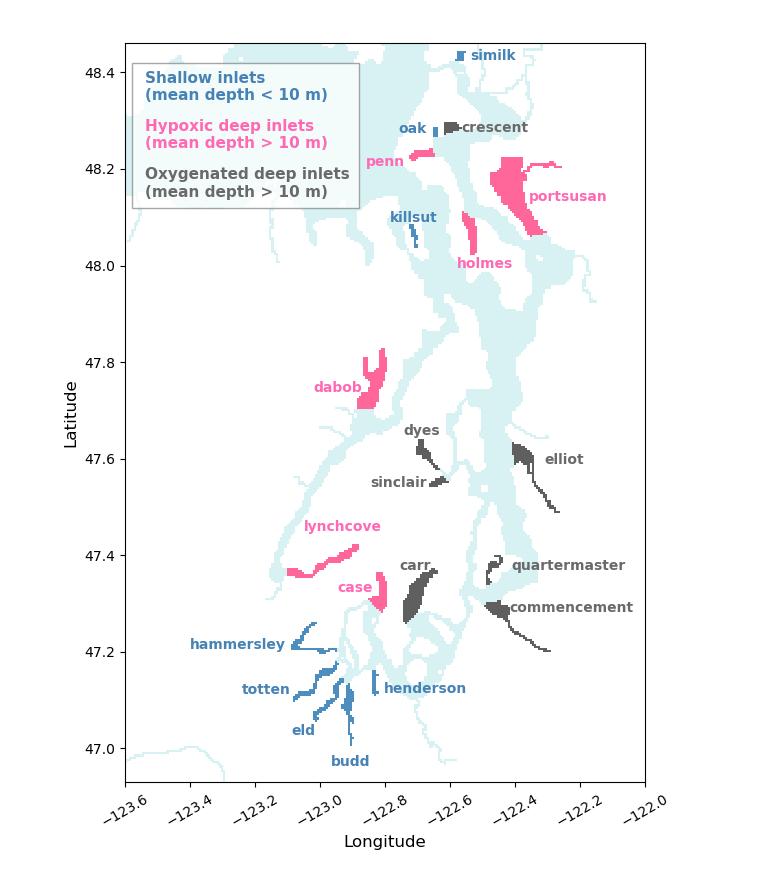
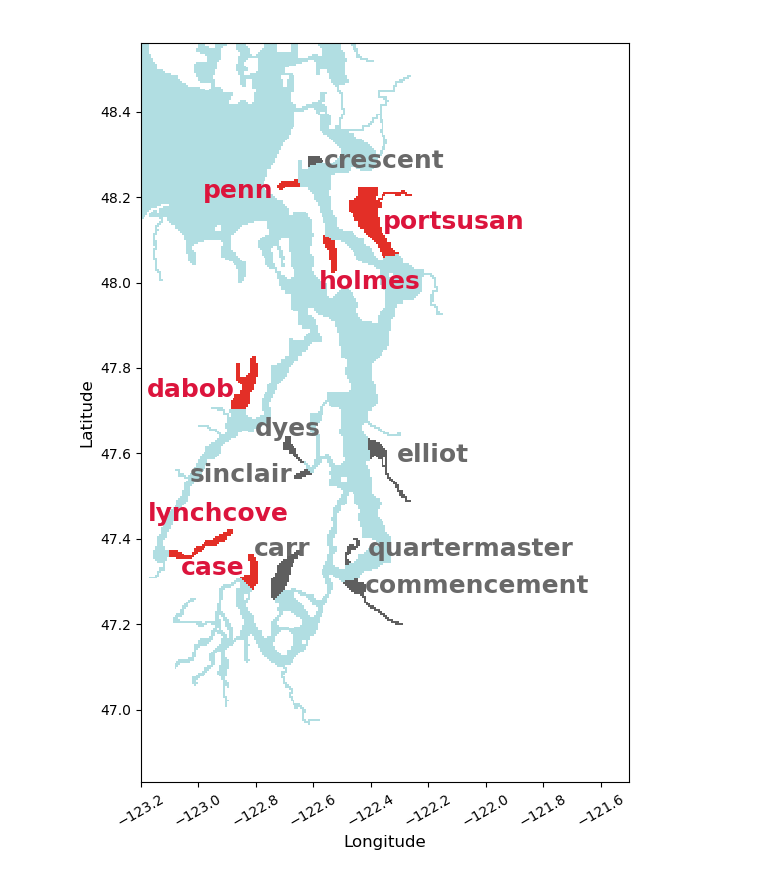
figures for poster

diff --git a/plotting/2014_2019_DO/budget_DO/plot_budget_TEF_21INLET.py b/plotting/2014_2019_DO/budget_DO/plot_budget_TEF_21INLET.py
@@ -2978,25 +2978,25 @@ timeseries = True
 if timeseries == True:
     for i,station in enumerate(sta_dict):
         # plt.close('all')
-        if station != 'penn':
+        if station != 'lynchcove':
             continue
         # initialize figure
-        fig, ax = plt.subplots(1,1,figsize = (8,6))
+        fig, ax = plt.subplots(1,1,figsize = (8,3))
         ax.set_title(station,fontsize=18)
 
         # format grid
         # ax.set_facecolor('#EEEEEE')
         ax.tick_params(axis='x', labelrotation=30)
         ax.grid(True,color='silver',linewidth=1,linestyle='--',axis='both')
-        ax.tick_params(axis='both', labelsize=12)
+        ax.tick_params(axis='both', labelsize=16)
         # ax.grid(True,color='w',linewidth=1,linestyle='-',axis='both')
         # for border in ['top','right','bottom','left']:
         #     ax.spines[border].set_visible(False)
-        ax.tick_params(axis='both', labelsize=12)
+        ax.tick_params(axis='both', labelsize=16)
         ax.xaxis.set_major_formatter(mdates.DateFormatter('%b'))
         ax.set_xlim([dates_no_crop[0],dates_no_crop[-1]])
         # ax.set_ylim([0,12])
-        ax.set_ylabel(r'DO$_{deep}$ [mg/L]', fontsize=12)
+        ax.set_ylabel(r'DO$_{deep}$ [mg/L]', fontsize=16)
 
         # get variables for plotting
         deep_layer_DO = DOconcen_dict[station]['Deep Layer']
@@ -3018,33 +3018,36 @@ if timeseries == True:
                 linestyle='-',label=r'DO$_{deep}$')
         ax.scatter(days,deep_lay_DO[i*intervals:(i+1)*intervals],s=80,facecolor=deepDO_color,edgecolor='white',zorder=7)
         # ax.plot(dates_local_daily,DOin,color='deeppink',linewidth=2,linestyle='--',label=r'TEF DO$_{in}$ (30-day Hanning Window)')
-        ax.legend(loc='upper left',fontsize=12)
+        ax.legend(loc='upper left',fontsize=14)
         ax.set_ylim([0,10])
         ticks = 5
 
+        ax.tick_params(axis='y', labelsize=16)
+
         # add Tflush
-        Tflush_color = 'mediumturquoise'
+        Tflush_color = 'tomato'
         ax2 = ax.twinx()
         for border in ['top','right','bottom','left']:
             ax2.spines[border].set_visible(False)
-        ax2.plot(dates_local_daily,Tflush,linewidth=2,linestyle='-',color=Tflush_color,
+        ax2.plot(dates_local_daily,Tflush,linewidth=2.5,linestyle='-',color=Tflush_color,
                  alpha=0.5,label=r'T$_{flush}$ (30-day Hanning Window)')
         # add scatter points of monthly mean
         ax2.scatter(days,mean_Tflush[i*intervals:(i+1)*intervals],s=80,facecolor=Tflush_color,edgecolor='white',zorder=7)
         # ax2.plot(dates_local_daily,Qin,linewidth=2,linestyle='-',color='darkturquoise',label='Qin (30-day Hanning Window)')
         # ax2.set_ylim([0,np.nanmax(Tflush)*4])
         # ax2.set_ylim([0,np.nanmax(Qin)*4])
-        ax2.set_ylabel(r'T$_{flush}$ [days]',color=Tflush_color,fontsize=12)
-        ax2.legend(loc='upper right',fontsize=12)
+        ax2.set_ylabel(r'T$_{flush}$ [days]',color=Tflush_color,fontsize=16)
+        ax2.legend(loc='upper right',fontsize=14)
         ymax = 1.2*np.nanmax(Tflush)
         # round to nearest multiple of 5
         ymax = int(5 * math.ceil(float(ymax)/5))
         ax2.set_ylim([0,ymax])
         ax2.set_yticks(np.arange(0, ymax+(ymax/ticks), ymax/ticks))
-        ax2.tick_params(axis='y', labelcolor=Tflush_color, labelsize=12)
+        ax2.tick_params(axis='y', labelcolor=Tflush_color, labelsize=16)
 
         out_dir_DOinTflush_ts = out_dir / 'DOin_Tflush_timeseries'
         Lfun.make_dir(out_dir_DOinTflush_ts)
+        plt.tight_layout()
         plt.savefig(out_dir_DOinTflush_ts / (station + '.png') )
 
 

diff --git a/plotting/puget_sound_map.py b/plotting/puget_sound_map.py
@@ -11,11 +11,13 @@ from lo_tools import plotting_functions as pfun
 from lo_tools import Lfun
 
 # define grid indices to look at
-j1 = 570
-j2 = 1170
-i1 = 220
+j1 = 200#570
+j2 = 1250#1170
+i1 = 50#220
 i2 = 652
+x_max_lat = -120#-121.4
 
+plt.close('all')
 # Get LiveOcean grid info --------------------------------------------------
 
 # get the grid data
@@ -33,20 +35,20 @@ zm[np.transpose(mask_rho) == 0] = np.nan
 zm[np.transpose(mask_rho) != 0] = -1
 
 # Create map
-fig = plt.figure(figsize=(3,3))
+fig = plt.figure(figsize=(5,5))
 ax = fig.add_subplot(1,1,1)
-ax.add_patch(Rectangle((X[i1], Y[j1]), -121.4-X[i1],Y[j2]-Y[j1], facecolor='dimgray'))
+ax.add_patch(Rectangle((X[i1], Y[j1]), x_max_lat-X[i1],Y[j2]-Y[j1], facecolor='dimgray'))
 plt.pcolormesh(plon, plat, zm, linewidth=0.5, vmin=-6, vmax=0, cmap=plt.get_cmap(cmocean.cm.ice))
 # format
 ax.axes.xaxis.set_visible(False)
 ax.axes.yaxis.set_visible(False)
-ax.set_xlim(X[i1],-121.4)#X[i2]) # Salish Sea
+ax.set_xlim(X[i1],x_max_lat)#X[i2]) # Salish Sea
 ax.set_ylim(Y[j1],Y[j2]) # Salish Sea
 pfun.dar(ax)
 
 # draw box around Puget Sound
 ax.add_patch(Rectangle((-123.2, 46.93), 1.1, 1.52,
-             edgecolor = 'white', facecolor = 'none', lw=1.5))
+             edgecolor = 'coral', facecolor = 'none', lw=2))
 
 # remove border
 for border in ['top','right','bottom','left']:

diff --git a/plotting/model_domain_full.py b/plotting/model_domain_full.py
@@ -27,7 +27,7 @@ background = 'dimgray'
 
 # get the grid data
 ds = xr.open_dataset('../../LO_data/grids/cas7/grid.nc')
-z = -ds.h.values
+z = ds.h.values
 mask_rho = np.transpose(ds.mask_rho.values)
 lon = ds.lon_rho.values
 lat = ds.lat_rho.values
@@ -49,7 +49,7 @@ plt.subplots_adjust(wspace=0, hspace=0)
 # create colormap
 # newcmap = cmocean.tools.crop_by_percent(cmocean.cm.deep_r, 20, which='max', N=None)
 # newcmap = cmocean.cm.deep_r
-newcmap = cmocean.tools.crop_by_percent(cmocean.cm.deep_r, 5, which='max')
+newcmap = cmocean.tools.crop_by_percent(cmocean.cm.deep, 5, which='max')
 # newcmap = cmocean.tools.crop_by_percent(cmocean.cm.rain_r, 10, which='max')
 newcmap.set_bad(background,1.) # background color
 
@@ -60,7 +60,7 @@ newcmap.set_bad(background,1.) # background color
 # Salish Sea ----------------------------------------------------------
 ax0 = fig.add_subplot(1,2,1)
 # cs = ax0.pcolormesh(plon, plat, zm, vmin=-5, vmax=0, cmap=newcmap)
-cs = ax0.pcolormesh(plon, plat, zm, vmin=-4000, vmax=0, cmap=newcmap)
+cs = ax0.pcolormesh(plon, plat, zm, vmin=0, vmax=4000, cmap=newcmap)
 # cs = ax0.pcolormesh(plon, plat, zm, vmin=-4000, vmax=0, cmap='gist_stern_r')
 cbar = plt.colorbar(cs,ax=ax0, location='right', pad=0.05)
 cbar.ax.tick_params(labelsize=11)#, color='#EEEEEE')#, rotation=30)
@@ -86,10 +86,10 @@ print('Lat={},{}'.format(Y[j1],Y[j2]))
 plt.xticks(rotation=30)#, color='#EEEEEE')
 # plt.yticks(color='#EEEEEE')
 
-# # draw box around Puget Sound
-# bordercolor = 'white'
-# ax0.add_patch(Rectangle((-123.2, 46.93), 1.1, 1.52,
-#              edgecolor = bordercolor, facecolor='none', lw=1.5))
+# draw box around Puget Sound
+bordercolor = 'violet'
+ax0.add_patch(Rectangle((-123.2, 46.93), 1.1, 1.52,
+             edgecolor = bordercolor, facecolor='none', lw=1.5))
 
 
 plt.savefig(out_dir / ('model_domain_full.png'),transparent='True')